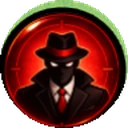
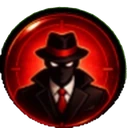
v1.61 — le halo vert des pastilles, le minutage centré dans sa boîte
Le halo ne venait pas de l'affichage mais des images. Une pastille est
découpée à même la carte, où elle se détache sur le fond de son
cadrage — vert sur un Plan Large. Le disque découpé étant un peu large
et pas tout à fait centré sur elle, il emportait un croissant de ce
fond. Les huit pastilles sont retaillées sur leur anneau sombre, leur
vrai contour, suivi rayon par rayon sur une image quatre fois plus
grande puis redescendue ; tout ce qui dépasse devient transparent.
nettoyer_pastilles() fait le travail à l'extraction.

Le minutage débordait de sa boîte par le bas parce que sa hauteur de
ligne valait normal — donc ce que la fonte déclare, et la fonte n'est
pas la même d'une machine à l'autre : SF Mono, Consolas, Menlo, ou la
monospace du système. Celles qui déclarent plus de 1,242 em faisaient
sortir les chiffres. La ligne est fixée à la taille du texte : elle
tient dans la boîte, et le centrage du flex la pose au milieu quelle
que soit la fonte. Le ::first-line qui tentait la même chose, sans y
parvenir, disparaît.

Claude-Session: https://claude.ai/code/session_01SEL89cNhQA7nZJAfcMueK5

diff --git a/js/app.js b/js/app.js
@@ -2,28 +2,28 @@
 // EDIT — application
 // ---------------------------------------------------------------------------
 
-import { VERSION, BUILD_DATE, CHANGELOG } from './version.js?v=1.60';
+import { VERSION, BUILD_DATE, CHANGELOG } from './version.js?v=1.61';
 import {
   ELEMENTS, ELEMENT_IDS, FORMATS, SCENES, PLANS_LARGES, DEPARTS, OBJ, objLabel,
   buildCartesDoubles, buildPlansLarges, moitiesDe, plHalf, halfInfo, FACES,
   appliquerMateriel, catalogue, moitiesDisponibles, cleplan, planDeCle, doublonsNumeros,
   CADRAGES_VISABLES, CADRAGES_POUVOIR, PORTEES, PORTEE_IDS, objPortee, faceJouee, PERSONNAGES, objsDe,
   KINDS_SEQUENCE, ciblesSequence,
-} from './data.js?v=1.60';
-import { DEFAULTS, SCHEMA, PROFILS_IA, COULEURS_JOUEURS, PALETTE_JOUEURS, encreDe, cloneConfig, migrerCfg, MODES, modeCourant } from './config.js?v=1.60';
-import { elIcon, numIcon } from './icons.js?v=1.60';
-import { renderCarte, renderPlan, renderDos, enPile, tc, objHTML, objContenu, cadrageIcon, estSi } from './cards.js?v=1.60';
+} from './data.js?v=1.61';
+import { DEFAULTS, SCHEMA, PROFILS_IA, COULEURS_JOUEURS, PALETTE_JOUEURS, encreDe, cloneConfig, migrerCfg, MODES, modeCourant } from './config.js?v=1.61';
+import { elIcon, numIcon } from './icons.js?v=1.61';
+import { renderCarte, renderPlan, renderDos, enPile, tc, objHTML, objContenu, cadrageIcon, estSi } from './cards.js?v=1.61';
 import {
   creerPartie, choixDepart, poserDepart, optionsDerushage, derusher,
   coupsPossibles, poser, avancer, scores, classement, construirePaquet, nouvelleGraine, planPose,
   faceVisible, retourner, resynchroniserBoite,
-} from './engine.js?v=1.60';
-import { choisirCoup, choisirDerushage, choisirDepart } from './ai.js?v=1.60';
-import { compter, SOURCES_LABEL, estRaccord, compteIcone } from './scoring.js?v=1.60';
-import { releve, voler, stopperVols } from './anim.js?v=1.60';
-import { campagne } from './lab.js?v=1.60';
-import { archiveCartes } from './export-pdf.js?v=1.60';
-import { REGLES_VERSION, REGLES_HISTORIQUE, corpsRegles, corpsVersion } from './regles.js?v=1.60';
+} from './engine.js?v=1.61';
+import { choisirCoup, choisirDerushage, choisirDepart } from './ai.js?v=1.61';
+import { compter, SOURCES_LABEL, estRaccord, compteIcone } from './scoring.js?v=1.61';
+import { releve, voler, stopperVols } from './anim.js?v=1.61';
+import { campagne } from './lab.js?v=1.61';
+import { archiveCartes } from './export-pdf.js?v=1.61';
+import { REGLES_VERSION, REGLES_HISTORIQUE, corpsRegles, corpsVersion } from './regles.js?v=1.61';
 
 const app = document.getElementById('app');
 

diff --git a/css/styles.css b/css/styles.css
@@ -303,16 +303,21 @@ body.sans-illus .moitie.f-GP .pastilles { gap: .12em; }
 body.sans-illus .moitie.f-GP .tcode { font-size: 1.4em; }
 .moitie.transition .pastilles { background: rgba(255,255,255,.14); }
 
-/* Le minutage, calé sur la boîte imprimée qu'il remplace. */
+/* Le minutage, calé sur la boîte imprimée qu'il remplace.
+   `line-height: 1` n'est pas un détail : sans elle, la hauteur de ligne vaut
+   `normal`, c'est-à-dire ce que la fonte déclare — et la fonte n'est pas la
+   même d'une machine à l'autre (SF Mono, Consolas, Menlo, ou la monospace du
+   système). Celles qui déclarent plus de 1,242 em faisaient déborder le texte
+   de sa boîte, par le bas. Fixée à 1, la ligne fait exactement la taille du
+   texte, tient dans la boîte, et le centrage du flex la pose au milieu quelle
+   que soit la fonte. */
 .moitie .tcode {
   position: absolute; top: .302em; left: .288em; width: 3.89em; height: 1.242em;
   display: flex; align-items: center; justify-content: center;
-  background: #0d0d10; color: #ff3b30; font-weight: 700; font-size: 1em;
-  border-radius: .3em; letter-spacing: .04em; border: 1px solid #3a3b44;
+  background: #0d0d10; color: #ff3b30; font-weight: 700; font-size: .92em;
+  line-height: 1; border-radius: .3em; letter-spacing: .04em; border: 1px solid #3a3b44;
   font-family: "SFMono-Regular", "Consolas", "Menlo", monospace;
 }
-.moitie .tcode::first-line { line-height: 1; }
-.moitie .tcode { font-size: .92em; }
 .moitie .tcode.bleu { color: #38bdf8; }
 
 /* Ce que le plan rapporte, au coin opposé du minutage. Le jeton ne paraît

diff --git a/js/version.js b/js/version.js
@@ -1,8 +1,16 @@
 // Compteur de version — incrémenter à chaque modification livrée.
-export const VERSION = '1.60';
-export const BUILD_DATE = '2026-08-26 18:20';
+export const VERSION = '1.61';
+export const BUILD_DATE = '2026-08-26 19:10';
 
 export const CHANGELOG = [
+  {
+    v: '1.61',
+    date: '26/08/2026',
+    items: [
+      "<b>Le halo vert au-dessus des pastilles est parti.</b> Il ne venait pas de l'affichage mais des <b>images elles-mêmes</b> : une pastille est découpée à même la carte, où elle se détache sur le fond de son cadrage — vert sur un Plan Large. Le disque découpé étant un peu large et pas tout à fait centré, il emportait un croissant de ce fond. Invisible à la taille d'une carte à l'écran, criant dès qu'on agrandit ou qu'on imprime. Les huit pastilles ont été <b>retaillées sur leur anneau sombre</b>, leur vrai contour, suivi rayon par rayon ; tout ce qui dépassait est devenu transparent. Le rognage se fait maintenant à l'extraction.",
+      "<b>Le minutage retrouve le centre de sa boîte noire.</b> Sa hauteur de ligne valait <code>normal</code>, c'est-à-dire ce que la fonte déclare — et ce n'est pas la même fonte d'une machine à l'autre : SF Mono, Consolas, Menlo, ou la monospace du système. Celles qui déclarent une ligne plus haute que la boîte faisaient <b>déborder les chiffres par le bas</b>. La ligne est désormais fixée à la taille du texte : elle tient dans la boîte, et le centrage la pose au milieu quelle que soit la fonte.",
+    ],
+  },
   {
     v: '1.60',
     date: '26/08/2026',

diff --git a/js/ai.js b/js/ai.js
@@ -5,9 +5,9 @@
 // Équilibré : compare tous les placements et évite d'éparpiller ses séquences.
 // Stratège  : anticipe le tour suivant à partir de ce qu'offrent les chutiers.
 
-import { coupsPossibles, appliquer, optionsDerushage, choixDepart } from './engine.js?v=1.60';
-import { compter } from './scoring.js?v=1.60';
-import { PROFILS_IA } from './config.js?v=1.60';
+import { coupsPossibles, appliquer, optionsDerushage, choixDepart } from './engine.js?v=1.61';
+import { compter } from './scoring.js?v=1.61';
+import { PROFILS_IA } from './config.js?v=1.61';
 
 function cloneBanc(b) {
   return { sequences: b.sequences.map((s) => s.slice()), ouverture: b.ouverture, fermeture: b.fermeture };

diff --git a/js/cards.js b/js/cards.js
@@ -11,8 +11,8 @@
 // hauteur, languette des pastilles jusqu'à 78,5 %, bandeau jusqu'à 93,7 %,
 // puis le libellé.
 
-import { FORMATS, ELEMENTS, moitiesDe, plHalf, objLabel, tcTexte, objPortee, PORTEES, objsDe, teinteObj, encreLibelle } from './data.js?v=1.60';
-import { elIcon, numIcon, cadrageIcon } from './icons.js?v=1.60';
+import { FORMATS, ELEMENTS, moitiesDe, plHalf, objLabel, tcTexte, objPortee, PORTEES, objsDe, teinteObj, encreLibelle } from './data.js?v=1.61';
+import { elIcon, numIcon, cadrageIcon } from './icons.js?v=1.61';
 
 export function tc(min) {
   return `${String(Math.floor(min)).padStart(2, '0')}:00`;

diff --git a/js/lab.js b/js/lab.js
@@ -5,9 +5,9 @@
 import {
   creerPartie, poserDepart, derusher, poser, avancer, scores, rng, nouvelleGraine,
   coupsPossibles, optionsDerushage,
-} from './engine.js?v=1.60';
-import { choisirCoup, choisirDerushage, choisirDepart } from './ai.js?v=1.60';
-import { SOURCES_LABEL } from './scoring.js?v=1.60';
+} from './engine.js?v=1.61';
+import { choisirCoup, choisirDerushage, choisirDepart } from './ai.js?v=1.61';
+import { SOURCES_LABEL } from './scoring.js?v=1.61';
 
 /** Joue une partie entière en mémoire et renvoie son résumé. */
 export function simulerPartie(joueurs, cfg, graine) {

diff --git a/js/regles.js b/js/regles.js
@@ -14,8 +14,8 @@
 // Chaque version garde son propre corps : les précédentes restent lisibles
 // telles qu'elles étaient, dans l'onglet « Versions des règles ».
 
-import { ELEMENTS, ELEMENT_IDS } from './data.js?v=1.60';
-import { elIcon } from './icons.js?v=1.60';
+import { ELEMENTS, ELEMENT_IDS } from './data.js?v=1.61';
+import { elIcon } from './icons.js?v=1.61';
 
 // Chaque version garde son texte complet dans `corps` : les règles
 // précédentes restent donc consultables telles quelles, et pas seulement

diff --git a/js/scoring.js b/js/scoring.js
@@ -9,7 +9,7 @@
 // Cartes Raccord, qui soudent deux séquences et démultiplient donc les points.
 // Seul le Générique compte sur le montage entier.
 
-import { PERSONNAGES, ELEMENT_IDS, CADRAGES_VISABLES, objPortee, objsDe } from './data.js?v=1.60';
+import { PERSONNAGES, ELEMENT_IDS, CADRAGES_VISABLES, objPortee, objsDe } from './data.js?v=1.61';
 
 export function bancVide() {
   return { sequences: [], ouverture: false, fermeture: false };

diff --git a/js/engine.js b/js/engine.js
@@ -6,8 +6,8 @@
 
 import {
   buildCartesDoubles, buildPlansLarges, buildDeparts, moitiesDe, plHalf, SCENE_BY_IDX, faceJouee,
-} from './data.js?v=1.60';
-import { compter, bancVide, plansComptes } from './scoring.js?v=1.60';
+} from './data.js?v=1.61';
+import { compter, bancVide, plansComptes } from './scoring.js?v=1.61';
 
 // --- Aléatoire reproductible ----------------------------------------------
 

diff --git a/js/config.js b/js/config.js
@@ -4,7 +4,7 @@
 // Tout ce qui pilote le déroulé et le décompte. Le Laboratoire fait varier ces
 // valeurs pour comparer les équilibrages.
 
-import { ELEMENT_IDS } from './data.js?v=1.60';
+import { ELEMENT_IDS } from './data.js?v=1.61';
 
 export const DEFAULTS = {
   // --- Déroulé -------------------------------------------------------------

diff --git a/sw.js b/sw.js
@@ -7,7 +7,7 @@
 // site, et ne se rabat sur sa copie en cache qu'en cas de coupure — le site
 // reste donc consultable hors ligne, mais n'est jamais périmé en ligne.
 
-const CACHE = 'edit-1.60';
+const CACHE = 'edit-1.61';
 
 self.addEventListener('install', () => {
   // La nouvelle version du worker prend la main sans attendre.

diff --git a/js/icons.js b/js/icons.js
@@ -6,7 +6,7 @@
 // L'application affiche donc exactement les icônes imprimées, partout — sur
 // les cartes comme dans les colonnes de score.
 
-import { ELEMENTS } from './data.js?v=1.60';
+import { ELEMENTS } from './data.js?v=1.61';
 
 const SPECIAUX = {
   MORT:  { label: 'Mort' },
